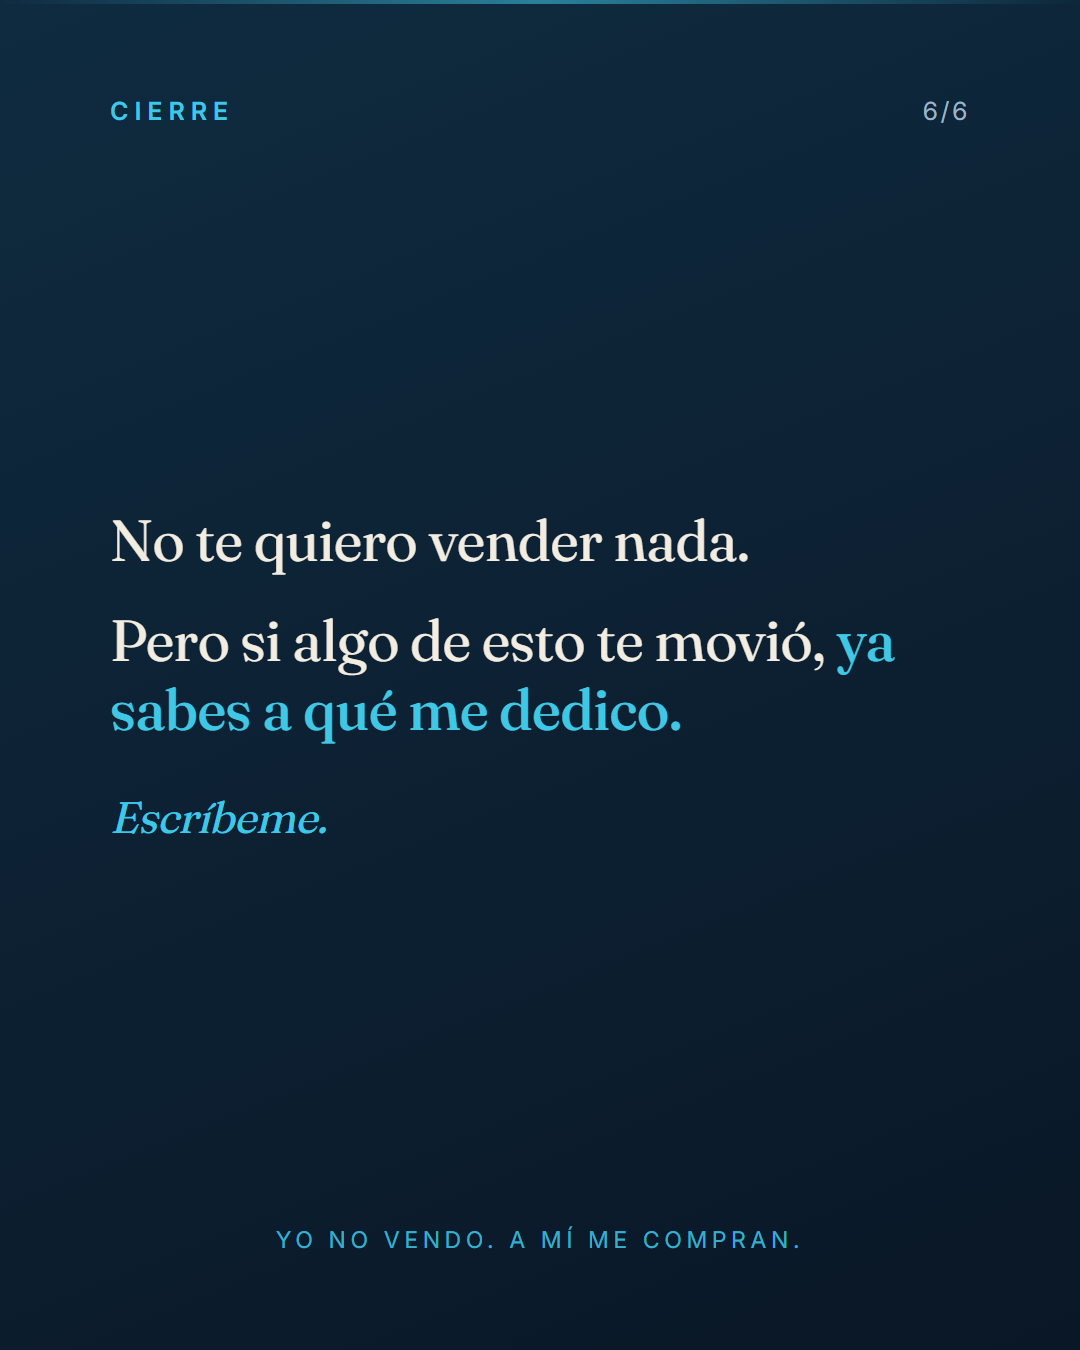
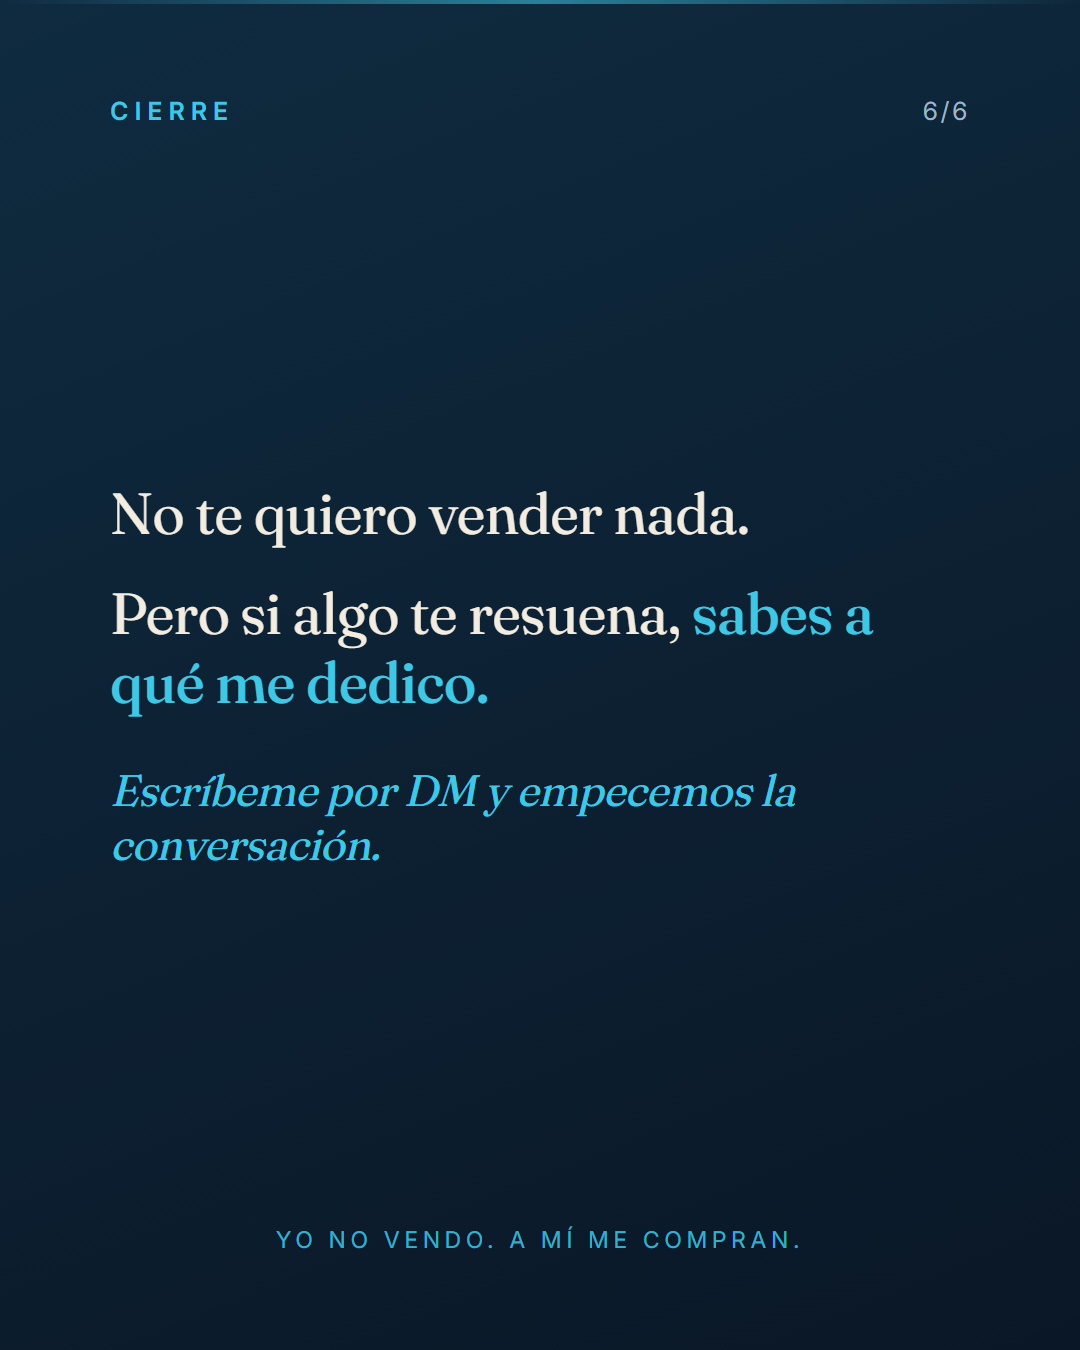
CTA de cierre mejorado: Escribeme por DM y empecemos la conversacion

Changed region(s): [[0.0917, 0.3733, 0.825, 0.6533]]

diff --git a/make-status.js b/make-status.js
@@ -1,0 +1,48 @@
+/*
+  Genera la imagen para el Status de WhatsApp (1080x1920, vertical).
+  node make-status.js  ->  profile/status-nuevo-proyecto.png
+*/
+const fs = require('fs');
+const path = require('path');
+const { execFileSync } = require('child_process');
+const CHROME = 'C:\\Program Files\\Google\\Chrome\\Application\\chrome.exe';
+const DIR = __dirname;
+const W = 1080, H = 1920;
+const outDir = path.join(DIR, 'profile');
+fs.mkdirSync(outDir, { recursive: true });
+
+const html = `<!DOCTYPE html><html><head><meta charset="UTF-8">
+<link rel="stylesheet" href="https://fonts.googleapis.com/css2?family=Fraunces:opsz,wght@9..144,400;9..144,500&family=Inter:wght@400;600&display=swap">
+<style>
+  *{margin:0;padding:0;box-sizing:border-box}
+  html,body{width:${W}px;height:${H}px;overflow:hidden}
+  body{background:radial-gradient(130% 100% at 50% 0%, #12324b 0%, #0e2336 45%, #0a1726 100%);
+    color:#f2ece1;font-family:'Inter',sans-serif;position:relative;
+    display:flex;flex-direction:column;align-items:center;justify-content:center;text-align:center;padding:0 110px}
+  .hair{position:absolute;top:0;left:0;right:0;height:5px;background:linear-gradient(90deg,transparent,#3fc8e6,transparent);opacity:.6}
+  .kick{font-size:30px;letter-spacing:.34em;text-transform:uppercase;color:#3fc8e6;font-weight:600;margin-bottom:60px}
+  h1{font-family:'Fraunces',Georgia,serif;font-weight:500;font-size:110px;line-height:1.05;letter-spacing:-.01em;margin-bottom:56px}
+  .sub{color:#9fb3c4;font-size:38px;line-height:1.5;max-width:760px;margin-bottom:110px}
+  .cta{font-size:30px;letter-spacing:.2em;text-transform:uppercase;color:rgba(242,236,225,.75);margin-bottom:30px}
+  .pill{display:inline-block;background:#3fc8e6;color:#04222b;font-weight:600;font-size:42px;
+    padding:28px 60px;border-radius:999px;letter-spacing:.01em}
+  .ring{position:absolute;bottom:-340px;left:50%;transform:translateX(-50%);width:900px;height:900px;
+    border:2px solid rgba(63,200,230,.18);border-radius:50%}
+</style></head><body>
+  <div class="hair"></div>
+  <div class="kick">Nuevo proyecto</div>
+  <h1>Herencia<br>Inteligente</h1>
+  <div class="sub">Cómo tu patrimonio cruza a la siguiente generación — intacto, líquido y sin pleitos.</div>
+  <div class="cta">Sígueme en Instagram</div>
+  <div class="pill">@herencia.inteligente</div>
+  <div class="ring"></div>
+</body></html>`;
+
+const htmlPath = path.join(outDir, 'status.html');
+const pngPath = path.join(outDir, 'status-nuevo-proyecto.png');
+fs.writeFileSync(htmlPath, html);
+execFileSync(CHROME, ['--headless=new','--disable-gpu','--hide-scrollbars','--no-sandbox',
+  '--force-device-scale-factor=1',`--window-size=${W},${H}`,'--virtual-time-budget=9000',
+  `--screenshot=${pngPath}`,'file:///'+htmlPath.replace(/\\/g,'/')], {stdio:'ignore'});
+fs.unlinkSync(htmlPath);
+console.log('Listo:', pngPath);

diff --git a/build_post.js b/build_post.js
@@ -92,8 +92,8 @@ const slides = post.slides.map((s, i) => ({
 const cl = post.close || {};
 slides.push({
   kick: cl.kicker || 'Cierre', page: total, total, isCTA: true,
-  big: cl.big || 'No te quiero vender nada. Pero si algo de esto te movió, <strong>ya sabes a qué me dedico.</strong>',
-  ctaLine: cl.line || 'Escríbeme.',
+  big: cl.big || 'No te quiero vender nada. Pero si algo te resuena, <strong>sabes a qué me dedico.</strong>',
+  ctaLine: cl.line || 'Escríbeme por DM y empecemos la conversación.',
   ctaFoot: cl.foot || 'Yo no vendo. A mí me compran.'
 });
 
